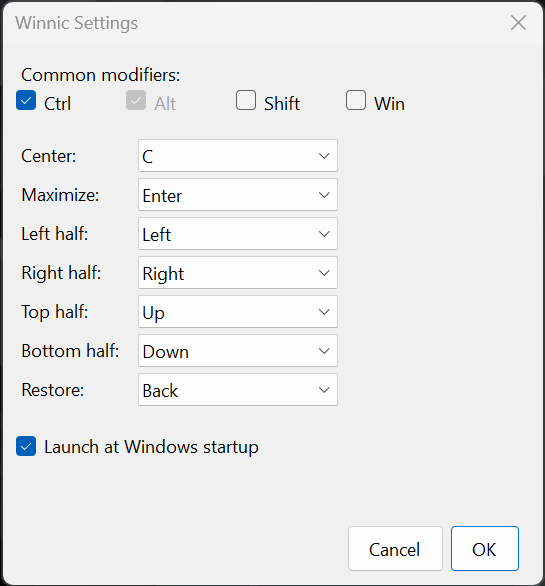
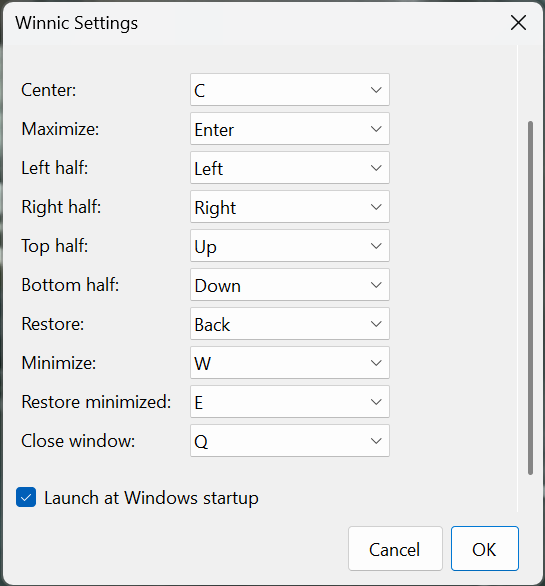
docs: update README for new window commands and default hotkeys
- Add defaults:
  - Minimize: Ctrl+Alt+W
  - Restore last minimized: Ctrl+Alt+E
  - Close window: Ctrl+Alt+Q
- Reflect new commands in “Configure hotkeys” section
- Rename tray menu label to “Settings” (no ellipsis)

diff --git a/SettingsForm.cs b/SettingsForm.cs
@@ -13,6 +13,9 @@ namespace Winnic
         private readonly ComboBox _rHalfCmbKey = new ComboBox { DropDownStyle = ComboBoxStyle.DropDownList };
         private readonly ComboBox _tHalfCmbKey = new ComboBox { DropDownStyle = ComboBoxStyle.DropDownList };
         private readonly ComboBox _bHalfCmbKey = new ComboBox { DropDownStyle = ComboBoxStyle.DropDownList };
+        private readonly ComboBox _minCmbKey = new ComboBox { DropDownStyle = ComboBoxStyle.DropDownList };
+        private readonly ComboBox _restMinCmbKey = new ComboBox { DropDownStyle = ComboBoxStyle.DropDownList };
+        private readonly ComboBox _closeCmbKey = new ComboBox { DropDownStyle = ComboBoxStyle.DropDownList };
 
         private readonly CheckBox _chkAutostart = new CheckBox { Text = "Launch at Windows startup", AutoSize = true };
         private readonly Button _btnOk = new Button { Text = "OK", DialogResult = DialogResult.OK, AutoSize = true, AutoSizeMode = AutoSizeMode.GrowAndShrink, Padding = new Padding(12, 6, 12, 6) };
@@ -31,8 +34,8 @@ namespace Winnic
             MinimizeBox = false;
             StartPosition = FormStartPosition.CenterScreen;
             AutoScaleMode = AutoScaleMode.Font;
-            ClientSize = new Size(540, 540);
-            MinimumSize = new Size(540, 540);
+            ClientSize = new Size(540, 630);
+            MinimumSize = new Size(540, 630);
 
             var modsPanel = new FlowLayoutPanel { Dock = DockStyle.Top, AutoSize = true, AutoSizeMode = AutoSizeMode.GrowAndShrink, Padding = new Padding(10) };
             var modsLabel = new Label { Text = "Common modifiers:", AutoSize = true, TextAlign = ContentAlignment.MiddleLeft, Padding = new Padding(0, 6, 6, 0) };
@@ -95,6 +98,24 @@ namespace Winnic
             _rCmbKey.Anchor = AnchorStyles.Left;
             keysTable.Controls.Add(_rCmbKey, 1, rowIndex++);
 
+            var lblMin = new Label { Text = "Minimize:", AutoSize = true, TextAlign = ContentAlignment.MiddleLeft, Padding = new Padding(0, 6, 6, 0) };
+            keysTable.Controls.Add(lblMin, 0, rowIndex);
+            _minCmbKey.Width = 200;
+            _minCmbKey.Anchor = AnchorStyles.Left;
+            keysTable.Controls.Add(_minCmbKey, 1, rowIndex++);
+
+            var lblRestMin = new Label { Text = "Restore minimized:", AutoSize = true, TextAlign = ContentAlignment.MiddleLeft, Padding = new Padding(0, 6, 6, 0) };
+            keysTable.Controls.Add(lblRestMin, 0, rowIndex);
+            _restMinCmbKey.Width = 200;
+            _restMinCmbKey.Anchor = AnchorStyles.Left;
+            keysTable.Controls.Add(_restMinCmbKey, 1, rowIndex++);
+
+            var lblClose = new Label { Text = "Close window:", AutoSize = true, TextAlign = ContentAlignment.MiddleLeft, Padding = new Padding(0, 6, 6, 0) };
+            keysTable.Controls.Add(lblClose, 0, rowIndex);
+            _closeCmbKey.Width = 200;
+            _closeCmbKey.Anchor = AnchorStyles.Left;
+            keysTable.Controls.Add(_closeCmbKey, 1, rowIndex++);
+
             var autostartPanel = new FlowLayoutPanel { Dock = DockStyle.Top, AutoSize = true, AutoSizeMode = AutoSizeMode.GrowAndShrink, Padding = new Padding(10, 10, 10, 12) };
             autostartPanel.Controls.Add(_chkAutostart);
 
@@ -121,6 +142,9 @@ namespace Winnic
             _rHalfCmbKey.FormattingEnabled = true;
             _tHalfCmbKey.FormattingEnabled = true;
             _bHalfCmbKey.FormattingEnabled = true;
+            _minCmbKey.FormattingEnabled = true;
+            _restMinCmbKey.FormattingEnabled = true;
+            _closeCmbKey.FormattingEnabled = true;
             _rCmbKey.FormattingEnabled = true;
             _cmbKey.Format += FormatKeyName;
             _mCmbKey.Format += FormatKeyName;
@@ -128,6 +152,9 @@ namespace Winnic
             _rHalfCmbKey.Format += FormatKeyName;
             _tHalfCmbKey.Format += FormatKeyName;
             _bHalfCmbKey.Format += FormatKeyName;
+            _minCmbKey.Format += FormatKeyName;
+            _restMinCmbKey.Format += FormatKeyName;
+            _closeCmbKey.Format += FormatKeyName;
             _rCmbKey.Format += FormatKeyName;
         }
 
@@ -152,6 +179,9 @@ namespace Winnic
                     _rHalfCmbKey.Items.Add(k);
                     _tHalfCmbKey.Items.Add(k);
                     _bHalfCmbKey.Items.Add(k);
+                    _minCmbKey.Items.Add(k);
+                    _restMinCmbKey.Items.Add(k);
+                    _closeCmbKey.Items.Add(k);
                     _rCmbKey.Items.Add(k);
                 }
             }
@@ -162,6 +192,9 @@ namespace Winnic
             if (!_rHalfCmbKey.Items.Contains(Keys.Right)) { _rHalfCmbKey.Items.Add(Keys.Right); }
             if (!_tHalfCmbKey.Items.Contains(Keys.Up)) { _tHalfCmbKey.Items.Add(Keys.Up); }
             if (!_bHalfCmbKey.Items.Contains(Keys.Down)) { _bHalfCmbKey.Items.Add(Keys.Down); }
+            if (!_closeCmbKey.Items.Contains(Keys.Q)) { _closeCmbKey.Items.Add(Keys.Q); }
+            if (!_minCmbKey.Items.Contains(Keys.W)) { _minCmbKey.Items.Add(Keys.W); }
+            if (!_restMinCmbKey.Items.Contains(Keys.E)) { _restMinCmbKey.Items.Add(Keys.E); }
             if (!_rCmbKey.Items.Contains(Keys.Back)) { _rCmbKey.Items.Add(Keys.Back); }
 
             _chkCtrl.Checked = CurrentSettings.CommonModifiers.HasFlag(HotkeyModifiers.Control);
@@ -205,6 +238,21 @@ namespace Winnic
             _rCmbKey.SelectedItem = CurrentSettings.RestoreKey;
             if (_rCmbKey.SelectedIndex < 0 && _rCmbKey.Items.Count > 0)
                 _rCmbKey.SelectedIndex = 0;
+
+            if (!_minCmbKey.Items.Contains(CurrentSettings.MinimizeKey)) _minCmbKey.Items.Add(CurrentSettings.MinimizeKey);
+            _minCmbKey.SelectedItem = CurrentSettings.MinimizeKey;
+            if (_minCmbKey.SelectedIndex < 0 && _minCmbKey.Items.Count > 0)
+                _minCmbKey.SelectedIndex = 0;
+
+            if (!_restMinCmbKey.Items.Contains(CurrentSettings.RestoreMinimizedKey)) _restMinCmbKey.Items.Add(CurrentSettings.RestoreMinimizedKey);
+            _restMinCmbKey.SelectedItem = CurrentSettings.RestoreMinimizedKey;
+            if (_restMinCmbKey.SelectedIndex < 0 && _restMinCmbKey.Items.Count > 0)
+                _restMinCmbKey.SelectedIndex = 0;
+
+            if (!_closeCmbKey.Items.Contains(CurrentSettings.CloseKey)) _closeCmbKey.Items.Add(CurrentSettings.CloseKey);
+            _closeCmbKey.SelectedItem = CurrentSettings.CloseKey;
+            if (_closeCmbKey.SelectedIndex < 0 && _closeCmbKey.Items.Count > 0)
+                _closeCmbKey.SelectedIndex = 0;
         }
 
         private void OnOk(object? sender, EventArgs e)
@@ -223,6 +271,9 @@ namespace Winnic
             var topKey = _tHalfCmbKey.SelectedItem is Keys tk ? tk : Keys.Up;
             var bottomKey = _bHalfCmbKey.SelectedItem is Keys bk ? bk : Keys.Down;
             var rkey = _rCmbKey.SelectedItem is Keys rk ? rk : Keys.Back;
+            var minimizeKey = _minCmbKey.SelectedItem is Keys mk2 ? mk2 : Keys.W;
+            var restoreMinimizedKey = _restMinCmbKey.SelectedItem is Keys umk ? umk : Keys.E;
+            var closeKey = _closeCmbKey.SelectedItem is Keys cx ? cx : Keys.Q;
 
             CurrentSettings = new AppSettings
             {
@@ -234,6 +285,9 @@ namespace Winnic
                 TopKey = topKey,
                 BottomKey = bottomKey,
                 RestoreKey = rkey,
+                MinimizeKey = minimizeKey,
+                RestoreMinimizedKey = restoreMinimizedKey,
+                CloseKey = closeKey,
                 AutoStart = _chkAutostart.Checked
             };
         }

diff --git a/IconFactory.cs b/IconFactory.cs
@@ -6,22 +6,37 @@ namespace Winnic
     {
         public static Icon CreateAppIcon()
         {
-            using var bmp = new Bitmap(32, 32);
-            using (var g = Graphics.FromImage(bmp))
+            var svgPath = Path.Combine(AppDomain.CurrentDomain.BaseDirectory, "assets", "favicon.svg");
+            if (!File.Exists(svgPath))
             {
-                g.SmoothingMode = SmoothingMode.AntiAlias;
-                g.Clear(Color.Transparent);
-
-                // Simple icon: square with a centering cross
-                using var bg = new SolidBrush(Color.FromArgb(30, 144, 255));
-                g.FillRectangle(bg, 0, 0, 32, 32);
-                using var pen = new Pen(Color.White, 3);
-                g.DrawLine(pen, 16, 4, 16, 28);
-                g.DrawLine(pen, 4, 16, 28, 16);
-                g.DrawEllipse(Pens.White, 10, 10, 12, 12);
+                // Fallback to simple generated icon if SVG not found
+                using var bmpFallback = new Bitmap(32, 32);
+                using (var g = Graphics.FromImage(bmpFallback))
+                {
+                    g.SmoothingMode = SmoothingMode.AntiAlias;
+                    g.Clear(Color.Transparent);
+                    using var bg = new SolidBrush(Color.FromArgb(30, 144, 255));
+                    g.FillRectangle(bg, 0, 0, 32, 32);
+                    using var pen = new Pen(Color.White, 3);
+                    g.DrawLine(pen, 16, 4, 16, 28);
+                    g.DrawLine(pen, 4, 16, 28, 16);
+                    g.DrawEllipse(Pens.White, 10, 10, 12, 12);
+                }
+                var hIconFallback = bmpFallback.GetHicon();
+                try
+                {
+                    using var tmpIcon = Icon.FromHandle(hIconFallback);
+                    return (Icon)tmpIcon.Clone();
+                }
+                finally
+                {
+                    NativeMethods.DestroyIcon(hIconFallback);
+                }
             }
 
-            // Create an icon and immediately clone it to release the original handle
+            // Render SVG to bitmap and convert to icon
+            var svgDoc = Svg.SvgDocument.Open(svgPath);
+            using var bmp = svgDoc.Draw(32, 32);
             var hIcon = bmp.GetHicon();
             try
             {
@@ -30,7 +45,6 @@ namespace Winnic
             }
             finally
             {
-                // Destroy the handle to avoid a leak
                 NativeMethods.DestroyIcon(hIcon);
             }
         }

diff --git a/TrayApplicationContext.cs b/TrayApplicationContext.cs
@@ -103,6 +103,31 @@ namespace Winnic
             {
                 ShowBalloon($"Failed to register bottom-half hotkey: {ex.Message}");
             }
+
+            try
+            {
+                _hotkeyManager.Register(cfg.CommonModifiers, cfg.MinimizeKey, OnMinimizeHotkey);
+            }
+            catch (Exception ex)
+            {
+                ShowBalloon($"Failed to register minimize hotkey: {ex.Message}");
+            }
+            try
+            {
+                _hotkeyManager.Register(cfg.CommonModifiers, cfg.RestoreMinimizedKey, OnRestoreMinimizedHotkey);
+            }
+            catch (Exception ex)
+            {
+                ShowBalloon($"Failed to register restore-minimized hotkey: {ex.Message}");
+            }
+            try
+            {
+                _hotkeyManager.Register(cfg.CommonModifiers, cfg.CloseKey, OnCloseHotkey);
+            }
+            catch (Exception ex)
+            {
+                ShowBalloon($"Failed to register close-window hotkey: {ex.Message}");
+            }
         }
 
         private void OnHotkeyPressed()
@@ -184,6 +209,42 @@ namespace Winnic
             try
             {
                 _windowCenterService.SnapForegroundWindowBottomHalf();
+            }
+            catch (Exception ex)
+            {
+                ShowBalloon($"Error: {ex.Message}");
+            }
+        }
+
+        private void OnMinimizeHotkey()
+        {
+            try
+            {
+                _windowCenterService.MinimizeForegroundWindow();
+            }
+            catch (Exception ex)
+            {
+                ShowBalloon($"Error: {ex.Message}");
+            }
+        }
+
+        private void OnRestoreMinimizedHotkey()
+        {
+            try
+            {
+                _windowCenterService.RestoreLastMinimizedWindow();
+            }
+            catch (Exception ex)
+            {
+                ShowBalloon($"Error: {ex.Message}");
+            }
+        }
+
+        private void OnCloseHotkey()
+        {
+            try
+            {
+                _windowCenterService.CloseForegroundWindow();
             }
             catch (Exception ex)
             {

diff --git a/WindowService.cs b/WindowService.cs
@@ -204,6 +204,15 @@ namespace Winnic
 
         private const int SW_SHOWMAXIMIZED = 3;
         private const int SW_SHOWNORMAL = 1;
+        private const int SW_MINIMIZE = 6;
+
+        [DllImport("user32.dll")]
+        private static extern bool SetForegroundWindow(IntPtr hWnd);
+
+        [DllImport("user32.dll", SetLastError = true)]
+        private static extern IntPtr SendMessage(IntPtr hWnd, uint Msg, IntPtr wParam, IntPtr lParam);
+
+        private const uint WM_CLOSE = 0x0010;
 
         public void MaximizeForegroundWindow()
         {
@@ -265,6 +274,33 @@ namespace Winnic
                 // If failed, just show as normal
                 ShowWindow(hwnd, SW_SHOWNORMAL);
             }
+        }
+
+        private IntPtr _lastMinimizedWindow;
+
+        public void MinimizeForegroundWindow()
+        {
+            var hwnd = GetForegroundWindow();
+            if (hwnd == IntPtr.Zero)
+                throw new InvalidOperationException("No active window");
+            _lastMinimizedWindow = hwnd;
+            ShowWindow(hwnd, SW_MINIMIZE);
+        }
+
+        public void RestoreLastMinimizedWindow()
+        {
+            if (_lastMinimizedWindow == IntPtr.Zero)
+                throw new InvalidOperationException("No minimized window to restore");
+            ShowWindow(_lastMinimizedWindow, SW_SHOWNORMAL);
+            SetForegroundWindow(_lastMinimizedWindow);
+        }
+
+        public void CloseForegroundWindow()
+        {
+            var hwnd = GetForegroundWindow();
+            if (hwnd == IntPtr.Zero)
+                throw new InvalidOperationException("No active window");
+            SendMessage(hwnd, WM_CLOSE, IntPtr.Zero, IntPtr.Zero);
         }
     }
 }

diff --git a/Settings.cs b/Settings.cs
@@ -27,6 +27,14 @@ namespace Winnic
 
         // Autostart
         public bool AutoStart { get; set; } = false;
+
+        // Additional window commands
+        [JsonConverter(typeof(JsonStringEnumConverter))]
+        public Keys MinimizeKey { get; set; } = Keys.W; // Minimize active window — key (Ctrl+Alt+W)
+        [JsonConverter(typeof(JsonStringEnumConverter))]
+        public Keys RestoreMinimizedKey { get; set; } = Keys.E; // Restore last minimized window — key (Ctrl+Alt+E)
+        [JsonConverter(typeof(JsonStringEnumConverter))]
+        public Keys CloseKey { get; set; } = Keys.Q; // Close active window — key (Ctrl+Alt+Q)
     }
 }
 

diff --git a/README.md b/README.md
@@ -17,7 +17,10 @@ Small Windows application (WinForms, .NET 9) that lives in the system tray and h
 - Snap to right half: default `Ctrl + Alt + Right`.
 - Snap to top half: default `Ctrl + Alt + Up`.
 - Snap to bottom half: default `Ctrl + Alt + Down`.
-- Tray icon with menu: "Settings…" and "Exit".
+- Minimize active window: default `Ctrl + Alt + W`.
+- Restore last minimized window: default `Ctrl + Alt + E`.
+- Close active window: default `Ctrl + Alt + Q`.
+- Tray icon with menu: "Settings" and "Exit".
 - Autostart on sign-in (toggle in settings).
 
 ## Architecture and structure
@@ -70,10 +73,13 @@ The executable will be in `bin/Release/net9.0-windows/win-x64/publish/`.
 
 ## Configure hotkeys
 
-Open the tray icon menu → "Settings…" and set hotkeys for:
+Open the tray icon menu → "Settings" and set hotkeys for:
 - Center window
 - Maximize window
 - Restore previous position
+- Minimize active window
+- Restore last minimized window
+- Close window
 - Snap to left/right halves
 - Snap to top/bottom halves
 
